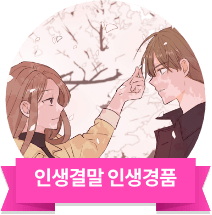
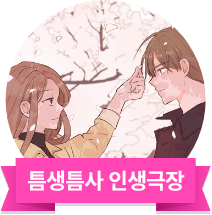
2021.12.06 수정본

Changed region(s): [[0.1132, 0.7814, 0.8774, 0.893]]

diff --git a/index.html b/index.html
@@ -27,7 +27,7 @@
     <meta name="description" content="일상의 모든 TM, TMAP. TMAP MOBILITY">
     <title>나만 몰라 틈 캠페인? 지금 보러 가기</title>
     <link rel="stylesheet" href="/libs/slick/slick.css?v=3">
-    <link rel="stylesheet" href="/css/style.css?v=10">
+    <link rel="stylesheet" href="/css/style.css?v=20211206">
     <script src="/libs/jquery/jquery-2.1.4.min.js"></script>
 
     <!-- Global site tag (gtag.js) - Google Analytics -->
@@ -87,7 +87,7 @@
                 </div>
 
                 <div class="share-list">
-                    <a href="#tmapEvent" class="page-move"><span>인생 경품 EVENT</span></a>
+                    <a href="#tmapEvent" class="page-move"><span>틈생틈사 인생극장</span></a>
                     <a href="javascript:void(0);" id="btn-sns-move"><span>APP <br class="only-pc">다운로드</span></a>
                     <a href="javascript:void(0);" class="js-toggle"><span>공유하기</span></a>
                 </div>

diff --git a/scss/module/_tmap.scss b/scss/module/_tmap.scss
@@ -646,7 +646,7 @@
                         margin-top: 0;
                         font-size: 0;
                         border-radius: 0;
-                        background: url('../img/pc/icon_event2.png') no-repeat 0 0;
+                        background: url('../img/pc/icon_event2.png?v=20211206') no-repeat 0 0;
                         background-size: auto 100%;
                     }
                     &:before { display: none; }

diff --git a/css/style.css b/css/style.css
@@ -6364,7 +6364,7 @@ button {
     margin-top: 0;
     font-size: 0;
     border-radius: 0;
-    background: url("../img/pc/icon_event2.png") no-repeat 0 0;
+    background: url("../img/pc/icon_event2.png?v=20211206") no-repeat 0 0;
     background-size: auto 100%;
   }
 }
